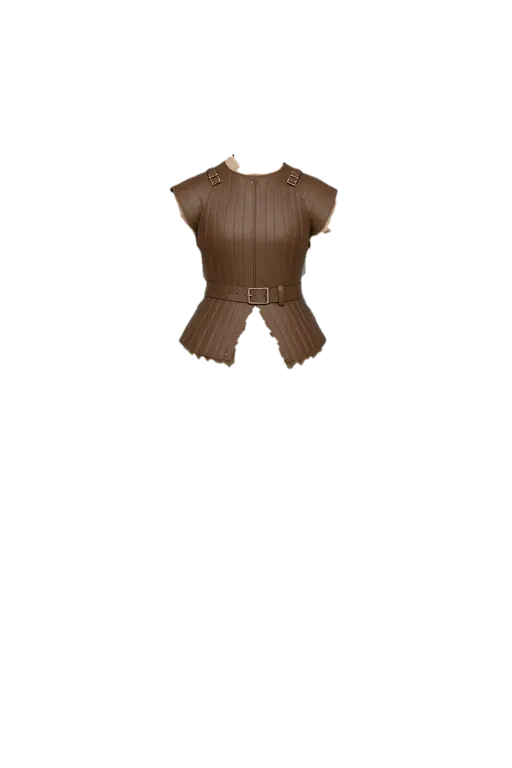
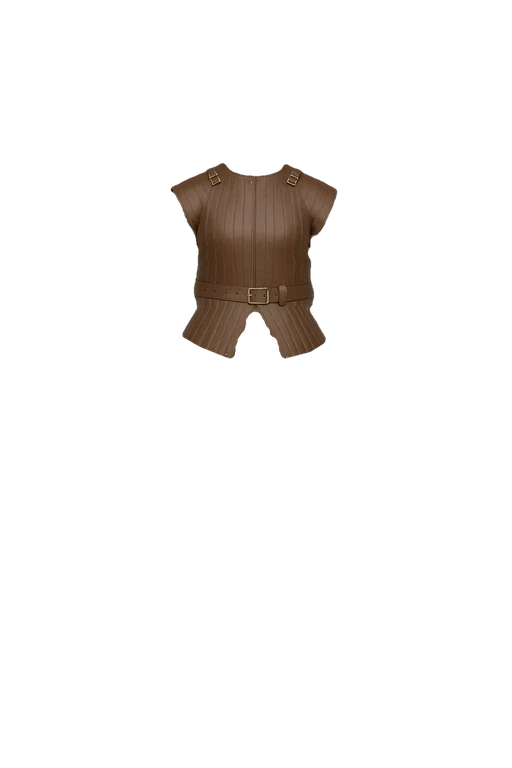
Postava (žena): kožená zbroj vnořená, roztažená na tělo, čistý lem a sukně pod ní
Claude-Session: https://claude.ai/code/session_01Q25kmxKucwLhnUcj4Ap4v4

diff --git a/nastroje/zbroj_na_telo.py b/nastroje/zbroj_na_telo.py
@@ -1,0 +1,47 @@
+"""JEDNA zbroj (vesta): trup zbroje se v každém řádku roztáhne do šířky těla (po vnitřní hranu paže),
+aby boky a podpaží kryla zbroj a nic zespodu nevyčuhovalo. Látka se natáhne (vzor zůstane).
+python3 nastroje/zbroj_na_telo.py <vrstva> <y_od> [y_do]"""
+import sys
+import numpy as np
+from PIL import Image
+from scipy.ndimage import median_filter, uniform_filter1d
+from pathlib import Path
+D = Path("img/postava"); n = sys.argv[1]; Y0 = int(sys.argv[2])
+sx = "zena" if "-zena-" in n else "muz"
+k = np.array(Image.open(D / f"{n}.webp").convert("RGBA")); A = k[..., 3] > 60
+body = np.array(Image.open(D / f"postava-telo-{sx}.webp").convert("RGBA"))[..., 3] > 5
+def useky(row):
+    x = np.where(row)[0]
+    if not len(x): return []
+    c = np.where(np.diff(x) > 1)[0]; return list(zip(np.r_[x[0], x[c + 1]], np.r_[x[c], x[-1]]))
+Y1 = int(sys.argv[3]) if len(sys.argv) > 3 else int(np.where(A[:, 512 - 60])[0].max())
+pp = next(y for y in range(Y0, 1000) if len([u for u in useky(body[y]) if not (u[0] <= 512 <= u[1])]) >= 2)
+li, ri = [], []
+for y in range(pp, pp + 120):
+    us = useky(body[y]); l = [u for u in us if u[1] < 452]; r = [u for u in us if u[0] > 572]
+    if l: li.append((y, max(u[1] for u in l)))
+    if r: ri.append((y, min(u[0] for u in r)))
+fl = np.polyfit(*zip(*li), 1); fr = np.polyfit(*zip(*ri), 1)
+ys = np.arange(Y0, Y1 + 1)
+cl, cr, tl, tr = [], [], [], []
+for y in ys:
+    sg = [u for u in useky(A[y]) if abs((u[0] + u[1]) / 2 - 512) < 200]
+    l, r = (min(u[0] for u in sg), max(u[1] for u in sg)) if sg else (512, 512)
+    cl.append(l); cr.append(r)
+    bs = [u for u in useky(body[y]) if u[0] <= 512 <= u[1]]
+    if y >= pp and bs: L, R = bs[0]
+    else: L, R = int(np.polyval(fl, y)) + 3, int(np.polyval(fr, y)) - 3
+    tl.append(min(l, L)); tr.append(max(r, R))
+tl = uniform_filter1d(median_filter(np.array(tl, float), 21), 11); tr = uniform_filter1d(median_filter(np.array(tr, float), 21), 11)
+src = k.copy()
+for i, y in enumerate(ys):
+    l, r, L, R = cl[i], cr[i], int(round(min(tl[i], cl[i]))), int(round(max(tr[i], cr[i])))
+    if r - l < 20: continue
+    xs = np.arange(L, R + 1)
+    # střed (±40 px) beze změny, natahují se jen boční části
+    m = 512
+    lo = np.interp(xs, [L, m - 40], [l, m - 40]); hi = np.interp(xs, [m + 40, R], [m + 40, r])
+    sxs = np.where(xs < m - 40, lo, np.where(xs > m + 40, hi, xs))
+    k[y, L:R + 1] = src[y, np.clip(np.round(sxs).astype(int), 0, 1023)]
+Image.fromarray(k).save(D / f"{n}.webp", "WEBP", quality=92); Image.fromarray(k).resize((512, 768), Image.LANCZOS).save(D / f"{n}-m.webp", "WEBP", quality=90)
+print(n, "pp", pp, "řádky", Y0, Y1)

diff --git a/nastroje/zbroj_bez_podkladu.py b/nastroje/zbroj_bez_podkladu.py
@@ -1,0 +1,19 @@
+"""JEDNA zbroj: pryč světlé zbytky podkladu (košilka) — pixely světlejší než materiál zbroje, kromě kovu/přezek.
+python3 nastroje/zbroj_bez_podkladu.py <vrstva> <práh_jasu> [y_od y_do]"""
+import sys
+import numpy as np, cv2
+from PIL import Image
+from pathlib import Path
+D = Path("img/postava"); n = sys.argv[1]; T = float(sys.argv[2])
+y0 = int(sys.argv[3]) if len(sys.argv) > 3 else 0; y1 = int(sys.argv[4]) if len(sys.argv) > 4 else 1536
+k = np.array(Image.open(D / f"{n}.webp").convert("RGBA")); rgb = k[..., :3].astype(float)
+lum = rgb.mean(2); s = (rgb.max(2) - rgb.min(2)) / np.maximum(rgb.max(2), 1)
+ys = np.arange(1536)[:, None]
+m = ((k[..., 3] > 0) & (lum > T) & (s < .45) & (ys >= y0) & (ys < y1)).astype(np.uint8)
+m = cv2.morphologyEx(m, cv2.MORPH_OPEN, np.ones((3, 3), np.uint8))
+m = cv2.dilate(m, np.ones((3, 3), np.uint8)) > 0
+k[..., 3] = np.where(m, 0, k[..., 3])
+al = (k[..., 3] > 60).astype(np.uint8); c, lab, st, _ = cv2.connectedComponentsWithStats(al)
+big = 1 + np.argmax(st[1:, cv2.CC_STAT_AREA]); k[..., 3] = np.where((lab != big) & (lab > 0), 0, k[..., 3])
+Image.fromarray(k).save(D / f"{n}.webp", "WEBP", quality=92); Image.fromarray(k).resize((512, 768), Image.LANCZOS).save(D / f"{n}-m.webp", "WEBP", quality=90)
+print(n, "pryč", int(m.sum()))

diff --git a/nastroje/lem_rovny.py b/nastroje/lem_rovny.py
@@ -1,0 +1,15 @@
+"""JEDNA vrstva: roztřepený spodní lem — od řádku Y dolů se nechá jen to, co přežije otevření velkým jádrem
+(useknou se cáry a třásně), pak měkký okraj. python3 nastroje/lem_rovny.py <vrstva> <Y> [jádro]"""
+import sys
+import numpy as np, cv2
+from PIL import Image
+from pathlib import Path
+D = Path("img/postava"); n = sys.argv[1]; Y = int(sys.argv[2]); J = int(sys.argv[3]) if len(sys.argv) > 3 else 31
+k = np.array(Image.open(D / f"{n}.webp").convert("RGBA"))
+al = (k[..., 3] > 100).astype(np.uint8)
+op = cv2.morphologyEx(al, cv2.MORPH_OPEN, cv2.getStructuringElement(cv2.MORPH_ELLIPSE, (J, J)))
+ys = np.arange(1536)[:, None]
+pryc = (ys >= Y) & (op == 0)
+k[..., 3] = np.where(pryc, 0, k[..., 3])
+Image.fromarray(k).save(D / f"{n}.webp", "WEBP", quality=92); Image.fromarray(k).resize((512, 768), Image.LANCZOS).save(D / f"{n}-m.webp", "WEBP", quality=90)
+print(n, "pryč", int((pryc & (al > 0)).sum()))
